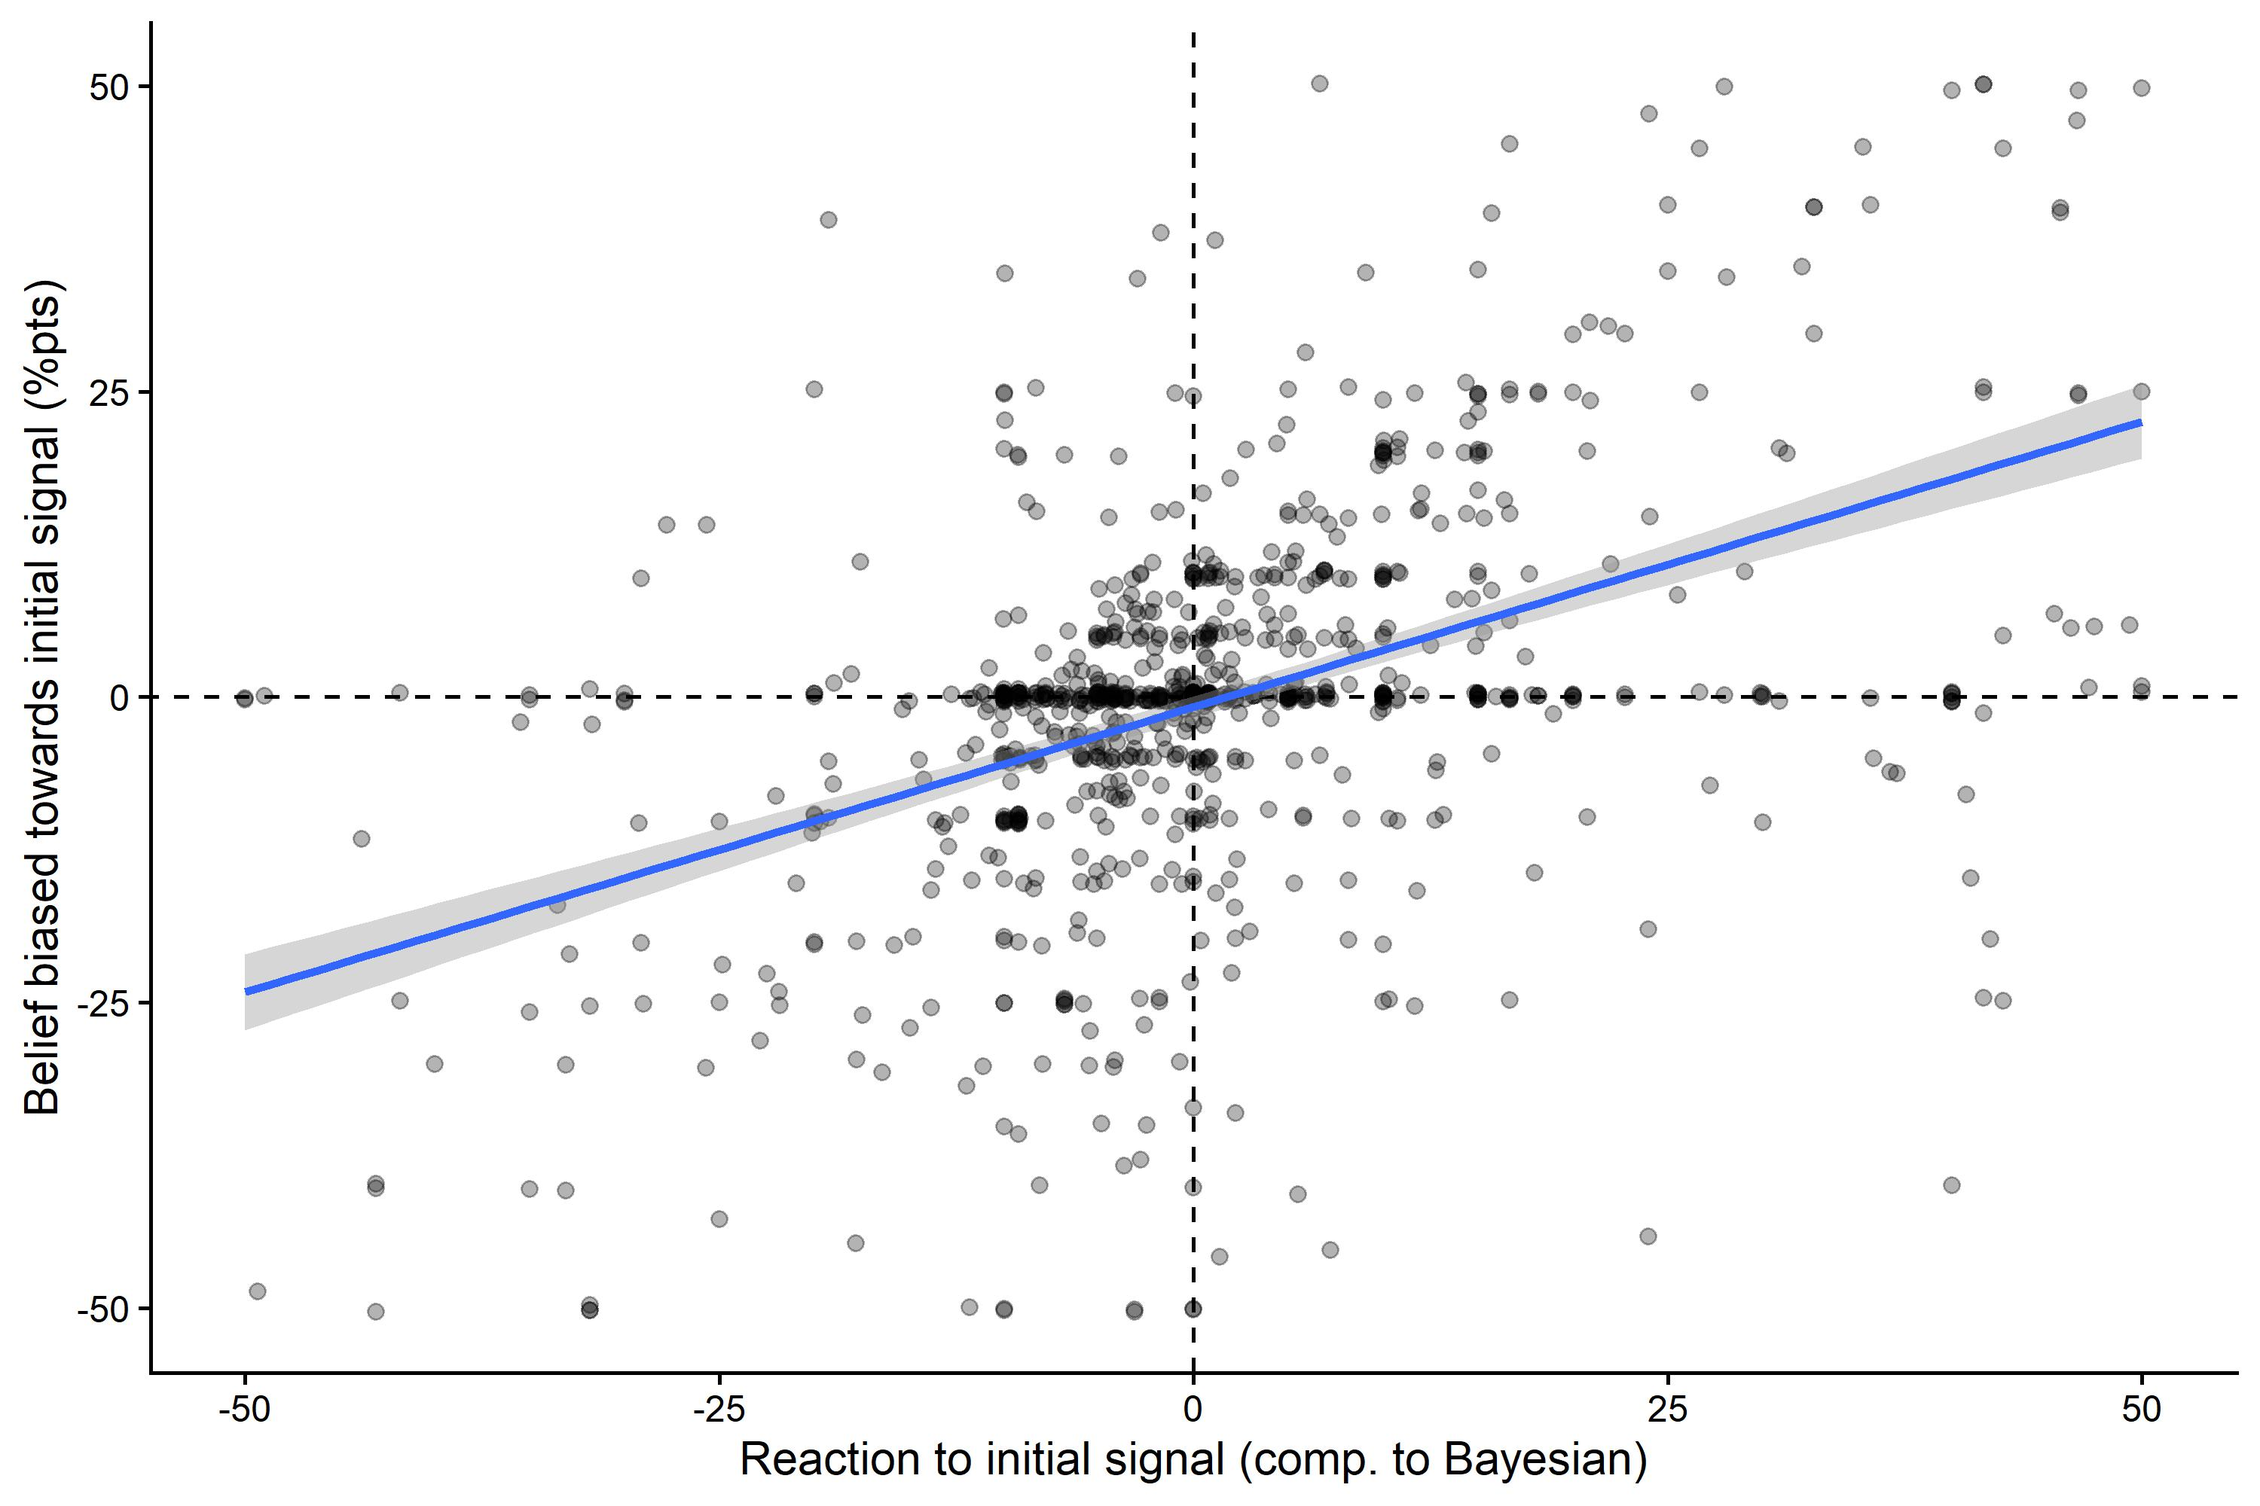
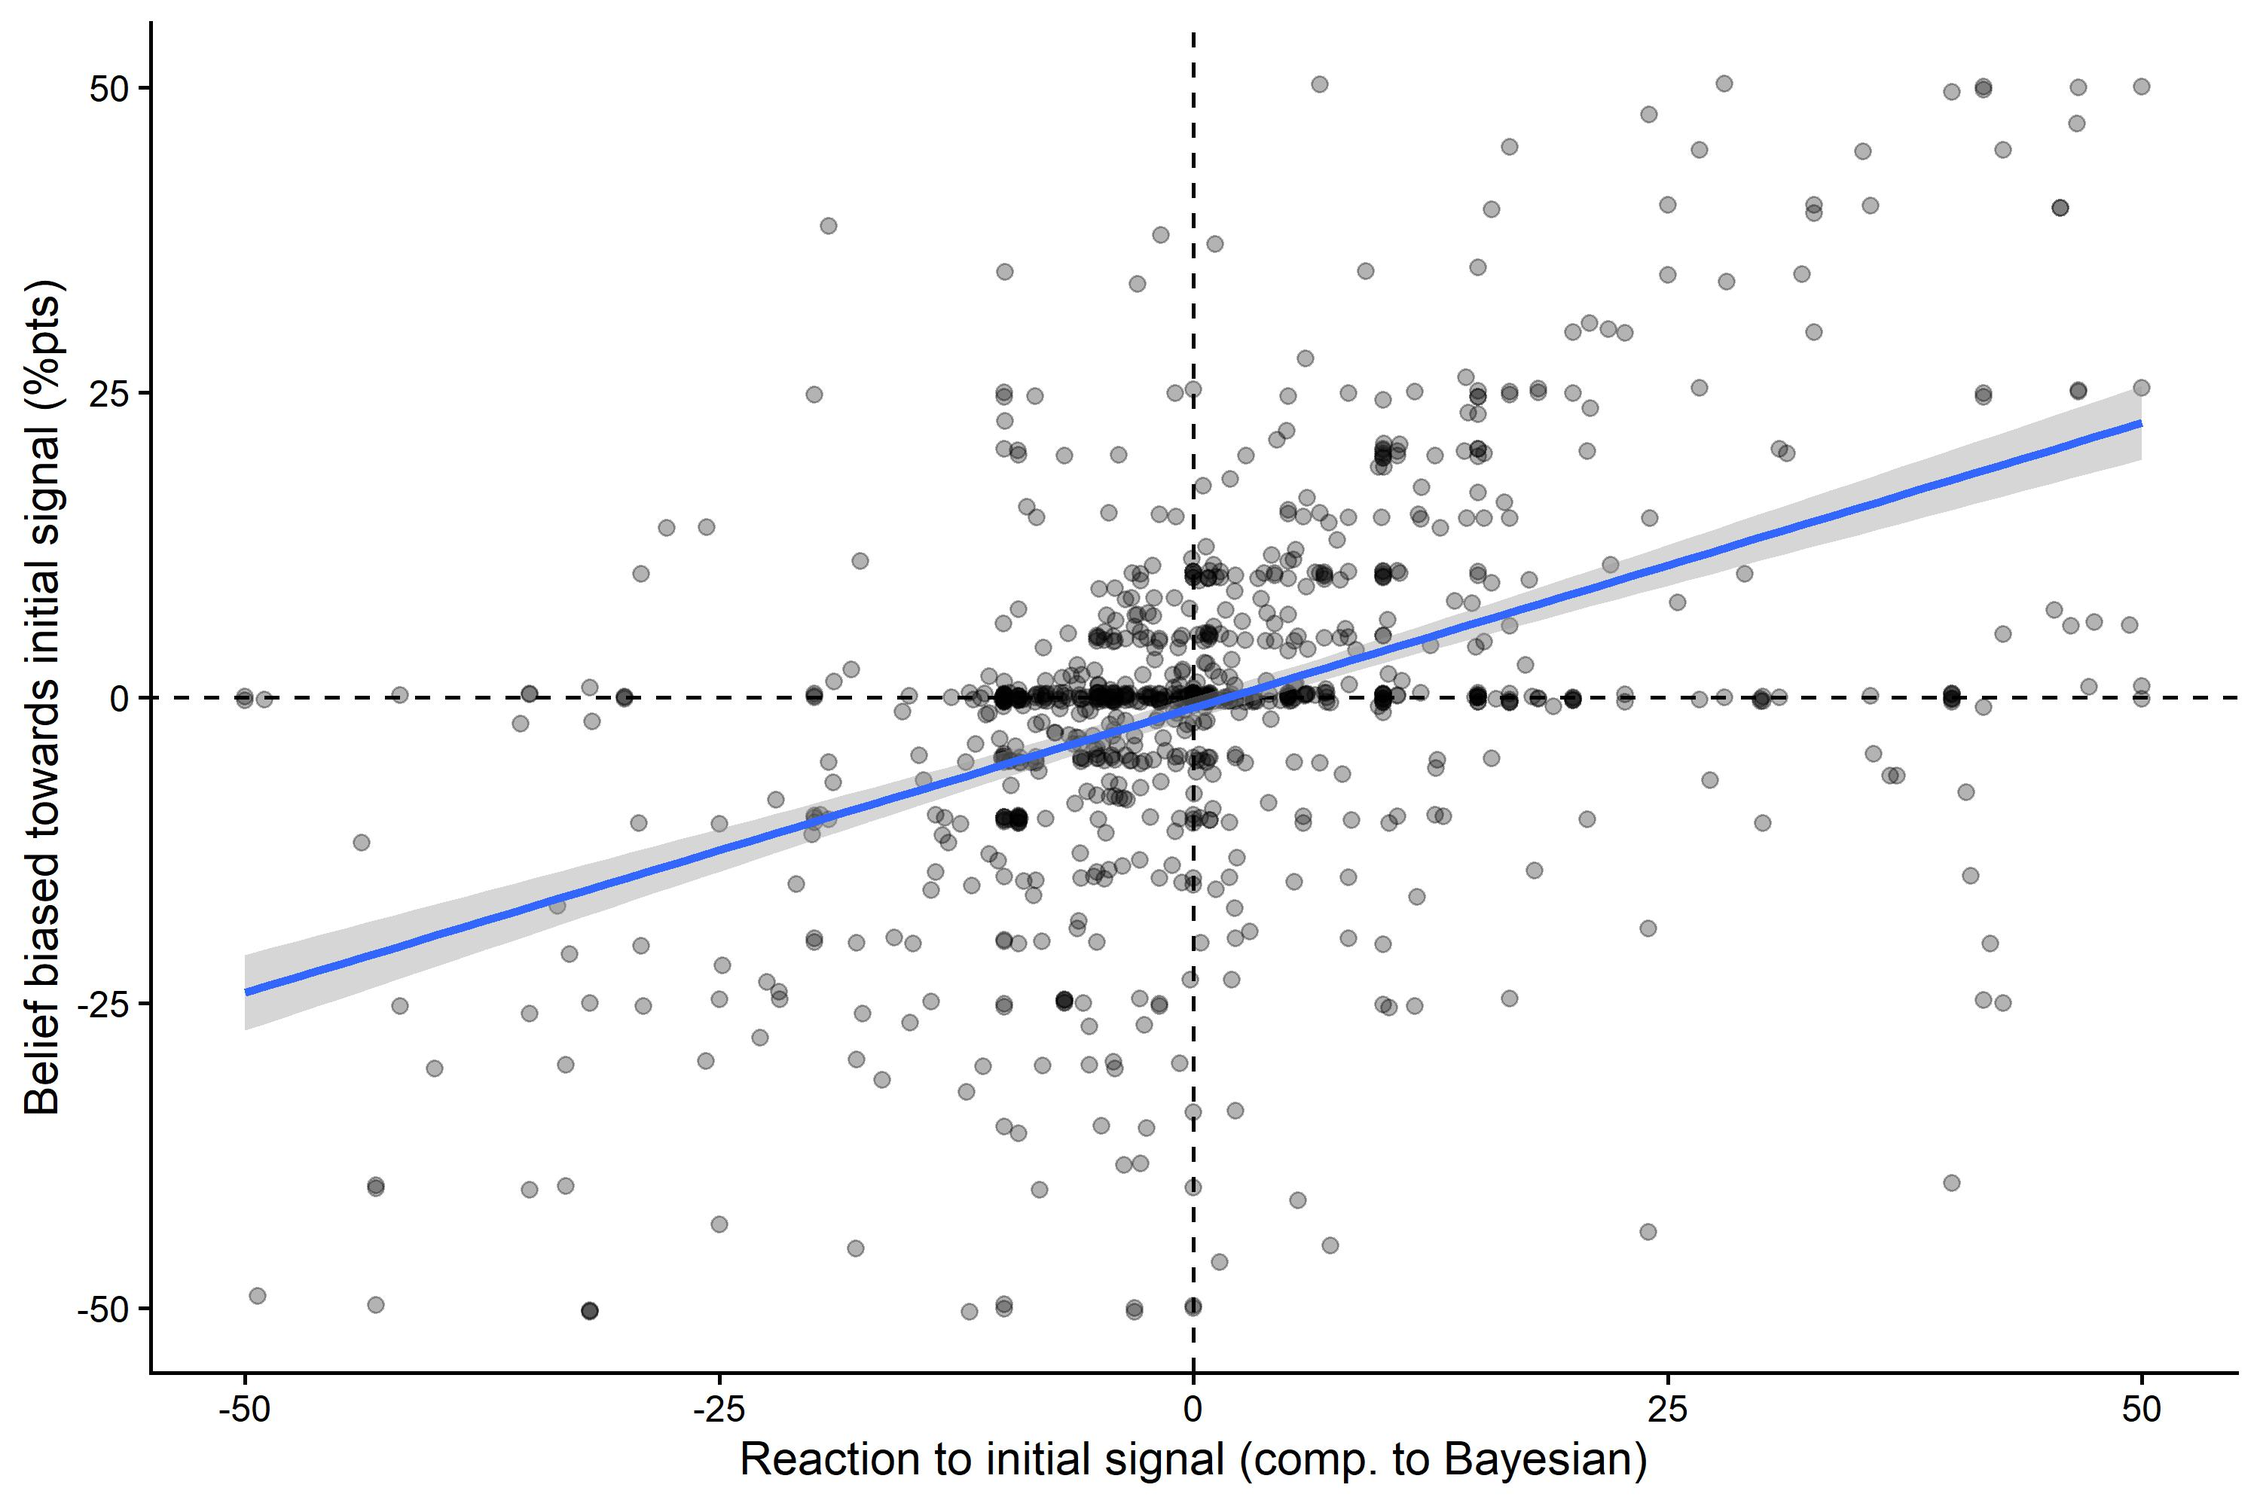
Combine docs and tidy stale references
- Merge docs/experimental_design.md into docs/methodology.md (renamed from
  bayesian_updating_logic.md): the experimental design becomes Section 1 of
  the methodology reference, dropping the duplicated setup material.
- Group docs/known_issues.md into "code vs. paper" discrepancies and
  "implementation notes".
- Fix stale references: "Preparing Data.R" -> 00_prepare_data.R, packages.R
  -> bootstrap.R, constants.R -> helpers.R; drop dead table citations from
  the c/d interpretation notes.
- Update README and CLAUDE.md doc lists.

diff --git a/docs/methodology.md b/docs/methodology.md
@@ -1,36 +1,83 @@
-# Bayesian Updating Logic — Reference Document
+# Methodology — experimental design and belief updating
 
-This document derives step by step the Bayesian framework underlying the analysis in Wittrock, Strobel & Tsakas, "Belief Updating with Misinformation." It covers the experimental setup, Bayes' rule applied to each signal type, the log-odds regression framework, and the two approaches to measuring signal strength (person-specific vs objective).
+Reference document for the experimental design and the Bayesian framework
+behind Wittrock, Strobel & Tsakas, "Belief updating with misinformation."
+Section 1 describes the design and the processed datasets; Sections 2 onward
+derive Bayes' rule for each signal type, the log-odds regression framework,
+and the two ways of measuring signal strength (person-specific vs objective).
+For the mapping from paper tables/figures to output files, see `README.md`.
 
 ---
 
-## 1. Experimental Setup
+## 1. Experimental Design
 
-### 1.1 The Urn
+### 1.1 Two experiments
 
-There are two equally likely urns (prior = 0.5):
+**Experiment 1** (`raw_data.csv`, `treat_aggregate_signal == 0`) — January 2022.
+Subjects see 9 uncertain ball draws + 3 ex-post verification rounds = 12 rounds.
+In a verification round subjects learn whether a previous ball was informative
+(confirmation) or uninformative (retraction). The 3 verification rounds are 3
+consecutive draws; the starting position varies across subjects.
+
+**Experiment 2** (`raw_data_extra.csv`, `treat_aggregate_signal == 1`) — January
+2023. Same design but with ex-ante verification: 6 uncertain signals + 3 signals
+whose informativeness is revealed immediately = 9 rounds. This lets us compare
+ex-post checks with ex-ante labelling.
+
+### 1.2 Information-display treatments (Experiment 1)
+
+Three sub-treatments vary what is shown on screen (`treat` variable):
+
+| `treat` | Description |
+|---|---|
+| 1 | Baseline: history of signals AND previously reported belief |
+| 2 | No anchor: history shown, previously reported belief hidden |
+| 3 | No history: only the most recent signal + previous belief |
+
+### 1.3 The urn and the signals
+
+Two equally likely urns (prior = 0.5):
 
 - **Red urn**: 3 red balls + 1 blue ball (gamma = 0.75 red)
 - **Blue urn**: 1 red ball + 3 blue balls (gamma = 0.75 blue)
 
-The participant's task is to estimate the probability that the urn is Red after observing a sequence of ball draws.
+The participant estimates the probability the urn is Red after a sequence of
+ball draws. Each draw is **uncertain**: with probability `prob_fake = 0.6` the
+ball comes from a 50/50 urn (uninformative); with probability `1 - prob_fake =
+0.4` it comes from the actual urn (informative). The participant sees the
+colour but not the informativeness.
 
-### 1.2 Uncertain Signals
+| Signal type | Source | Description |
+|---|---|---|
+| Regular signal | Both experiments | Colour shown, informativeness unknown |
+| Retraction (`ver_retract = 1`) | Experiment 1 | Ex-post: a previous ball is revealed uninformative — the update should be undone |
+| Confirmation (`ver_retract = 0`) | Experiment 1 | Ex-post: a previous ball is revealed informative — it came from the real urn |
+| Uninformative | Experiment 2 | Ex-ante: colour + "uninformative" shown together |
+| Informative | Experiment 2 | Ex-ante: colour + "informative" shown together |
 
-Each ball draw is **uncertain**: with probability `prob_fake = 0.6`, the ball is drawn from a 50/50 urn (uninformative). With probability `1 - prob_fake = 0.4`, the ball is drawn from the actual urn (informative).
+Section 16 lists every numeric parameter.
 
-The participant sees the ball color but does NOT know whether it was informative or not.
+### 1.4 Sample
 
-### 1.3 Verification Rounds (Experiment 1)
+849 subjects completed; 96 were removed as outliers (pre-registered criteria),
+leaving **753 subjects and 8,397 observations**. By experiment: Exp 1 — 606
+completed, 66 removed; Exp 2 — 243 completed, 30 removed.
 
-After some regular rounds, the participant learns whether a **previous** ball draw was informative or not:
+### 1.5 Processed datasets
 
-- **Retraction** (`ver_retract = 1`): "That signal was uninformative" — the participant should undo the previous update.
-- **Confirmation** (`ver_retract = 0`): "That signal was informative" — the participant now knows the signal came from the real urn.
+`00_prepare_data.R` builds these into `data/processed/`:
 
-### 1.4 Aggregate Rounds (Experiment 2)
+| Dataset | N | Content |
+|---|---|---|
+| `data_main`          | 8,397 | All observations (outliers removed) |
+| `data_regular`       | 6,777 | Regular signal rounds |
+| `data_retract`       |   985 | Retraction rounds |
+| `data_confirm`       |   635 | Confirmation rounds |
+| `data_informative`   |   269 | Ex-ante informative signals (Exp 2) |
+| `data_uninformative` |   370 | Ex-ante uninformative signals (Exp 2) |
 
-The participant is told **before** seeing the ball whether it is informative or uninformative.
+`00_prepare_data.R` also writes `data_subject` and `data_time`, which the
+analysis pipeline does not use.
 
 ---
 
@@ -183,7 +230,7 @@ In other words: **a retraction of a red signal is equivalent to receiving a blue
 posterior = belief_lag2
 ```
 
-(Return to the belief before the retracted signal. In `Preparing Data.R`: `posterior_subj = belief_lag2` for retractions.)
+(Return to the belief before the retracted signal. In `00_prepare_data.R`: `posterior_subj = belief_lag2` for retractions.)
 
 **But why is the objective signal "opposite ball" and not "return to belief_lag2"?**
 
@@ -279,7 +326,7 @@ Key observations:
 
 ## 6. The `signal_memory` Variable
 
-The variable `signal_memory` in `Preparing Data.R` stores these objective signal values. It is defined as the probability P(signal indicates Red urn) — i.e., the signal expressed as a probability rather than a likelihood ratio.
+The variable `signal_memory` in `00_prepare_data.R` stores these objective signal values. It is defined as the probability P(signal indicates Red urn) — i.e., the signal expressed as a probability rather than a likelihood ratio.
 
 Conversion to log-likelihood-ratio:
 ```
@@ -328,7 +375,7 @@ For real participants, signal_subj ≠ signal_memory because their beliefs devia
 
 ## 8. The `post()` Function
 
-The function in `Preparing Data.R` computes the Bayesian posterior in two stages:
+The function in `00_prepare_data.R` computes the Bayesian posterior in two stages:
 
 ```r
 post(prior, num_red, num_blue, num_red_ret, num_blue_ret, num_red_conf, num_blue_conf)
@@ -397,12 +444,12 @@ These are the estimated coefficients from `obslnpost = c * signal_ratio_obj + d 
 ### Retractions (objective signal)
 - c ≈ 0.82, d ≈ 0.71
 - c < 1 suggests the retraction signal receives less weight than Bayes prescribes, while d is similar to regular signals
-- **Caveat:** The belief change analysis (Table 10, retractions vs opposite ball) does not find a significant difference in raw belief change between retractions and opposite-colored balls once signal history is controlled for. So the c < 1 finding here may reflect properties of the log-odds decomposition rather than a clear-cut "retractions are less effective" story. The relationship between the log-odds c/d decomposition and the probability-space belief change results needs further investigation.
+- **Caveat:** the c < 1 finding may partly reflect properties of the log-odds decomposition rather than a clear-cut "retractions are less effective" story. The relationship between the log-odds c/d decomposition and probability-space belief change deserves care when interpreting (see the retraction-vs-opposite-signal comparison, paper Section 6 / Figure 7).
 
 ### Confirmations (objective signal)
 - c ≈ 1.45, d ≈ 0.58
 - c > 1 and d < 1 follow a qualitatively similar pattern to regular signals (over-weigh signal, under-weigh prior), but d is notably lower (0.58 vs 0.70)
-- **Caveat:** Other results show that over-reporting persists through confirmations (`over_report ~ over_report_lag1` has a strong positive coefficient). How this persistence relates to c > 1 and d < 1 in the log-odds decomposition is not immediately obvious and requires careful interpretation. The low d could partially explain persistence (prior biases carry through at reduced but nonzero weight), but the interplay between signal over-weighting and prior under-weighting in producing the net effect needs further analysis.
+- **Caveat:** over-reporting tends to persist through confirmations. How this persistence relates to c > 1 and d < 1 in the log-odds decomposition is not immediately obvious. The low d could partly explain persistence (prior biases carry through at reduced but nonzero weight), but the interplay between signal over-weighting and prior under-weighting in producing the net effect needs care.
 - **Open question:** Why is d lower for confirmations (0.58) than for regular signals (0.70) and retractions (0.71)? Possible explanations include: the verification event disrupting confidence in the current belief, collinearity between signal and prior (both push in the same direction for confirmations), or a genuine behavioral difference. Disentangling these requires further work.
 
 ---

diff --git a/docs/known_issues.md b/docs/known_issues.md
@@ -1,12 +1,15 @@
-# Known issues — code vs. published paper
+# Known issues
 
-This file records the points where the replication code intentionally
-differs from the numbers or figures as printed in the paper. In every case
-the code is internally consistent with the paper's stated methodology
-(Section 4.2: Grether regressions estimated **without an intercept**); the
-printed paper has small inconsistencies introduced during revisions.
+## Code vs. paper — intentional discrepancies
 
-## 1. Table B1 — estimated without an intercept
+The three points below are places where the replication code intentionally
+differs from the numbers as printed in the paper. In every case the code is
+internally consistent with the paper's stated methodology (Section 4.2:
+Grether regressions estimated **without an intercept**); the printed paper has
+small inconsistencies introduced during revisions, and its appendix should be
+updated to match.
+
+### Table B1 — estimated without an intercept
 
 The paper's printed Table B1 (c and d by period block) was generated **with**
 an intercept, whereas Table 1, Table B2, and the paper's Section 4.2 all use
@@ -17,7 +20,7 @@ Effect: most cells move by ≤ 0.01; the early-retraction cell moves most
 (c 0.635 → 0.674, d 1.136 → 1.205). No sign or qualitative conclusion changes.
 Restoring an intercept in `run_cd_by()` reproduces the printed paper exactly.
 
-## 2. Table B2 — H(0,0) baseline definition
+### Table B2 — H(0,0) baseline definition
 
 Profile H(0,0) is "regular signals with no verification of any type seen so
 far". This package defines it as `cum_ret == 0 & cum_conf == 0`, the
@@ -29,7 +32,7 @@ code path that filtered on retractions only (`cum_ret == 0`, ignoring prior
 confirmations). The methodologically correct value is c = 0.436, d = 1.660.
 The other five profiles (H(1,0) … H(1,1)) are unaffected and match the paper.
 
-## 3. Table 1 — Initial column standard errors
+### Table 1 — Initial column standard errors
 
 The paper's printed Table 1 has the Prior and Signal standard errors
 **transposed in the Initial column**: it prints Prior (0.051) / Signal
@@ -37,14 +40,17 @@ The paper's printed Table 1 has the Prior and Signal standard errors
 Signal (0.052). Point estimates and the other two columns are correct. This
 package outputs the correct values.
 
-## 4. Theory-prediction curves are not generated
+## Implementation notes
+
+### Theory-prediction curves are not generated
 
 The bias-by-prior figures (Figures 5, 6, 7, B2, B4, …) contain the observed
 **data bars only**. The red model-prediction curves shown in the paper are
-added by hand in the paper's LaTeX. Each generated TikZ figure ends with a
+added by hand in the paper's LaTeX. Each generated TikZ figure carries a
 `% ADD THEORY CURVE BELOW` placeholder marking where the curve is inserted.
 
-## 5. stargazer 5.2.3 compatibility patch
+### stargazer 5.2.3 compatibility patch
 
-`code/utils/packages.R` patches stargazer 5.2.3 for R ≥ 4.2 (the released
-stargazer fails on newer R). This is applied automatically.
+`code/utils/bootstrap.R` patches stargazer 5.2.3 for R ≥ 4.2 (the released
+stargazer fails on newer R). This is applied automatically when the pipeline
+loads.

diff --git a/README.md b/README.md
@@ -83,11 +83,9 @@ pure-theory illustrations and are not generated by this code.
 - Standard errors in Table 1 are clustered by subject.
 - `code/utils/bootstrap.R` applies a compatibility patch for stargazer 5.2.3
   on R ≥ 4.2.
-- **`docs/experimental_design.md`** — experimental design, treatments, and
-  processed datasets.
+- **`docs/methodology.md`** — experimental design, processed datasets, and the
+  Bayesian belief-updating framework behind the analysis.
 - **`docs/known_issues.md`** — where the code intentionally differs from the
   printed paper (Tables B1, B2, and a standard-error typo in Table 1).
 - **`docs/exploratory_analyses_archive.md`** — analyses produced during the
   revision but not included in the final paper.
-- **`docs/bayesian_updating_logic.md`** — technical reference for the
-  belief-updating variables.
